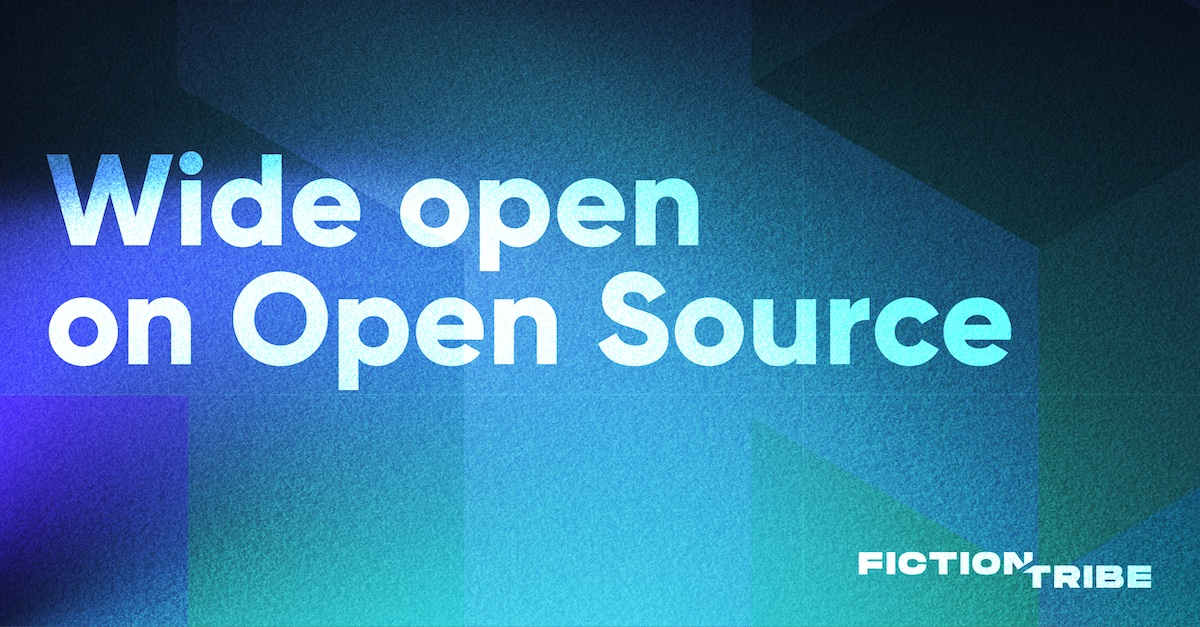
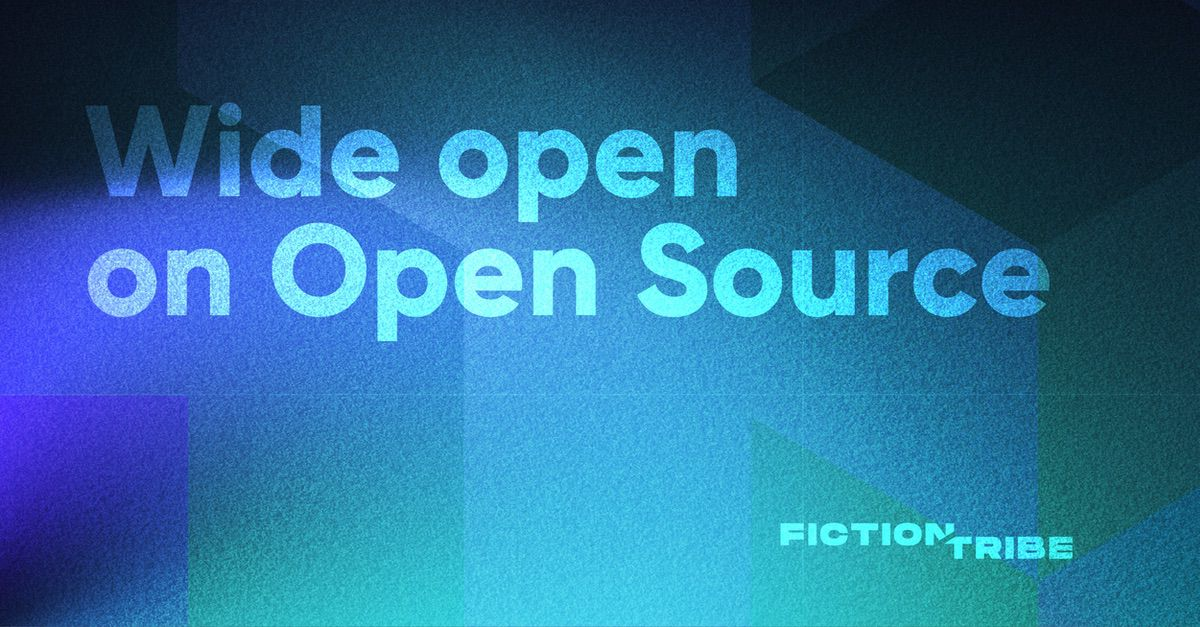
add new OG images

Changed region(s): [[0.0308, 0.1515, 0.8942, 0.6364], [0.6475, 0.8182, 0.9867, 0.9394]]

diff --git a/content/blog/matching-story-to-content/index.md b/content/blog/matching-story-to-content/index.md
@@ -1,65 +1,35 @@
 ---
-title: Our Commitment Is Curiosity. Our Reputation Is Results.
-date: "2022-11-01T22:40:32.169Z"
+title: Matching Story to Content
+date: "2022-11-22T22:40:32.169Z"
 featuredimage:
   src: "./blog1.png"
-  alt: "Our Commitment Is Curiosity. Our Reputation Is Results."
+  alt: "Matching Story to Content"
 author:
-  name: "Mike Caplan"
-  role: "Chief Operating Officer"
-  email: "mike@fictiontribe.com | 503-954-2268"
+  name: "Russ Meyer"
+  role: "Creative Director"
+  email: "russ@fictiontribe.com"
   image:
     src: "./mike-avatar.jpg"
-    alt: "Mike Caplan"
+    alt: "Russ Meyer"
 ogimage: 
-  src: "./og-image.png"
+  src: "./og.jpg"
   alt: "og"
-description: Every day, there’s news of next-generation technology impacting markets—a special something that makes what we’re currently doing obsolete. That’s why it’s critical to take a close look at emerging technologies and applications, from NFTs to AR, and everything in between, to decide when (or if) it makes sense to incorporate them into our strategic marketing.
+description: Telling brands that good marketing is about storytelling is like saying that painting is about controlling light and color. It’s not wrong, but it doesn’t help you make it. Because the hard part, of course, is learning how. Well, to start you first have to have a familiarity with the tools at your disposal—specifically, what content works best for the type of story you’re trying to tell.
 ---
 
-## We help brands envision who they are, and what they’re becoming.
+Telling brands that good marketing is about storytelling is like saying that painting is about controlling light and color. It’s not wrong, but it doesn’t help you make it. Because the hard part, of course, is learning how. Well, to start you first have to have a familiarity with the tools at your disposal—specifically, what content works best for the type of story you’re trying to tell. Don’t worry, this isn’t another post about the buyer’s journey. It’s about what comes before that: building a fundamental understanding of what different assets look like, and what they do best. 
 
-`vimeo: https://vimeo.com/765883072`
+To inform that process, we created Matching Story to Content: Your Guide to Finding the Right Medium. By no means is it an exhaustive source of all content. A compendium like that is theoretical at best, since content can literally be anything. But it does cover the basics. And that’s where content strategy should always start. 
 
+Whether establishing a common language internally or creating a source of truth that guides conversations with clients, here are the three most important reasons to use this guide. 
 
-### Change is our creative fuel
+### Getting clients on the same page (of the same book)
+So, why is it important to take a step back and revisit how you define the “what and why” of content? Because we’re not all speaking the same language. What we think of as an infographic or an ebook—even a homepage—has become murky. And it’s causing some problems. For example, you’re in a meeting with a client, talking through content strategy. You suggest an infographic. “Let’s do it!” they say. “Great!” you say. Everyone is nodding. You start producing it and find out that they have no data—nothing with which to illustrate a narrative except words. (So many words.) Turns out what they thought of as an infographic is really a novel with some arrows. In short, these terms have started to morph into one-size-fits-all catchphrases. They’re beginning to lose their meaning and purpose. 
 
-Every day, there’s news of next-generation technology impacting markets—a special something that makes what we’re currently doing obsolete. That’s why it’s critical to take a close look at emerging technologies and applications, to help decode value from the buzz and decide when (or if) it makes sense to incorporate them into our clients’ strategic marketing.
+### Avoiding compounded confusion
+At Fiction Tribe, we noticed this “language barrier” becoming increasingly problematic. And not just with the more functional asset types—but with less tangible deliverables like concepts too. When we took a closer look, we realized that hints of confusion were starting before any content was even produced. From the very first conversations, through to scoping and statements of work, the same vague language was carrying through and allowing for too much open interpretation. And let’s just say, the time to find out that you and your client don’t have the same deliverable in mind is not when you’re presenting it. 
 
-That’s why our team hosts internal hackathons to dive into the realm of gaming, Web3, NFT wallets, to experiment with augmented reality, rewire customer databases, and more. It’s our aim to stay ahead of trends and assess their market viability. This first-hand knowledge helps us guide, inform and counsel, and inspire. Like the shark that suffocates if it stops moving, we endlessly pursue the practical “Knowledge of Now.” That’s the life-blood of our shop.
+### To keep from building a box before you know what goes in it
+These days, it’s not uncommon for clients to come to the table with a laundry list of assets they already think they need. This is good and bad. It’s good because, well… at least they’re thinking about it. It’s bad because they may not be as open as they could be to telling their story in new, different, and more potent ways. While it may be easier to just take their list as marching orders, agencies need to take the time to dig deeper and design with more focused intent. In other words, that ebook ultimately won’t perform well, because it should have been a video. 
 
-
-### Want to know what drives us? Here’s a short list: 
-
-- Creating refreshing work for world-class clients
-- Delivering measurable business value, not winning industry awards 
-- Making clients’ innovations shine with purposeful marketing 
-- Finding client’s North Star and building success through thoughtful alignment
-- Putting a well-deserved spotlight on our collaborators—both individuals and teams
-
-
-### Growth happens because of a desire to learn
-
-We’re only as good as the last project, campaign or initiative. Breaking new ground is an essential part of our approach to client strategy.
-
-Due diligence at the beginning of collaboration brings renewed perspectives to the ways we work. A flexible approach allows us to easily integrate proven production processes with clients’ needs. The result? Things get done faster, better, and at lower cost, because our clients are always at the center of what we do—and how we do it. 
-
-And time is dedicated to what matters most: the work.
-
-
-### Inspiration is built on trust and respect—with clients of all kinds.
-
-We strive to be experts. Sustainable partnerships shape the business, and we’re fearless when attacking the hard work required to do the best, smartest work. Our equally hard-working clients stick around through the years, often bringing us along as their roles evolve, and they help foster new relationships with recommendations to colleagues. 
-
-This is how success is measured. There is no gray area—no room for misinterpretation—and no running and hiding from it.
-
-First, our clients are incredibly passionate about what they do. They want to move the needle, and are open to both proven and new ways to get there. (No box-checkers in this crowd.) 
-
-Second, they rely on a partner that will both keep them informed on the latest tech, trends, and tactics, and also act as a responsible steward in helping them navigate ever-changing marketplace waters. 
-
-And third, if (or when) adversity hits—regardless of project or campaign—it’s dealt with directly. Always guided by respect, honesty, and transparency.
-
-
-### Brass tacks 
-
-All of these things are the requisite ingredients to moving our business—and our clients’—forward. It’s a philosophy you may hear from other agencies, but with Fiction Tribe you feel it. With every asset, on every call, our commitment and enthusiasm sits right on the surface. And the only hierarchy we subscribe to is elevating good ideas above what’s expected. What’s left is pure potential. 
+## Agree? Disagree? We’d love to hear your thoughts. 

diff --git a/content/blog/our-commitment-is-curiosity/index.md b/content/blog/our-commitment-is-curiosity/index.md
@@ -12,7 +12,7 @@ author:
     src: "./mike-avatar.jpg"
     alt: "Mike Caplan"
 ogimage: 
-  src: "./og-image.png"
+  src: "./og.jpg"
   alt: "og"
 description: Every day, there’s news of next-generation technology impacting markets—a special something that makes what we’re currently doing obsolete. That’s why it’s critical to take a close look at emerging technologies and applications, from NFTs to AR, and everything in between, to decide when (or if) it makes sense to incorporate them into our strategic marketing.
 ---

diff --git a/content/blog/dont-sink-in-a-sea-of-same/index.md b/content/blog/dont-sink-in-a-sea-of-same/index.md
@@ -12,7 +12,7 @@ author:
     src: "./kozik-avatar.jpg"
     alt: "Stephen Kozik"
 ogimage: 
-  src: "./og-image.png"
+  src: "./og.jpg"
   alt: "og"
 description: Professional huckster and amateur human being P.T. Barnum once famously said, “There’s no such thing as bad publicity.” While that certainly isn’t true, the takeaway is that the worst thing you can do is be boring. Indeed, the opposite of love isn’t hate—it’s indifference.
 ---
